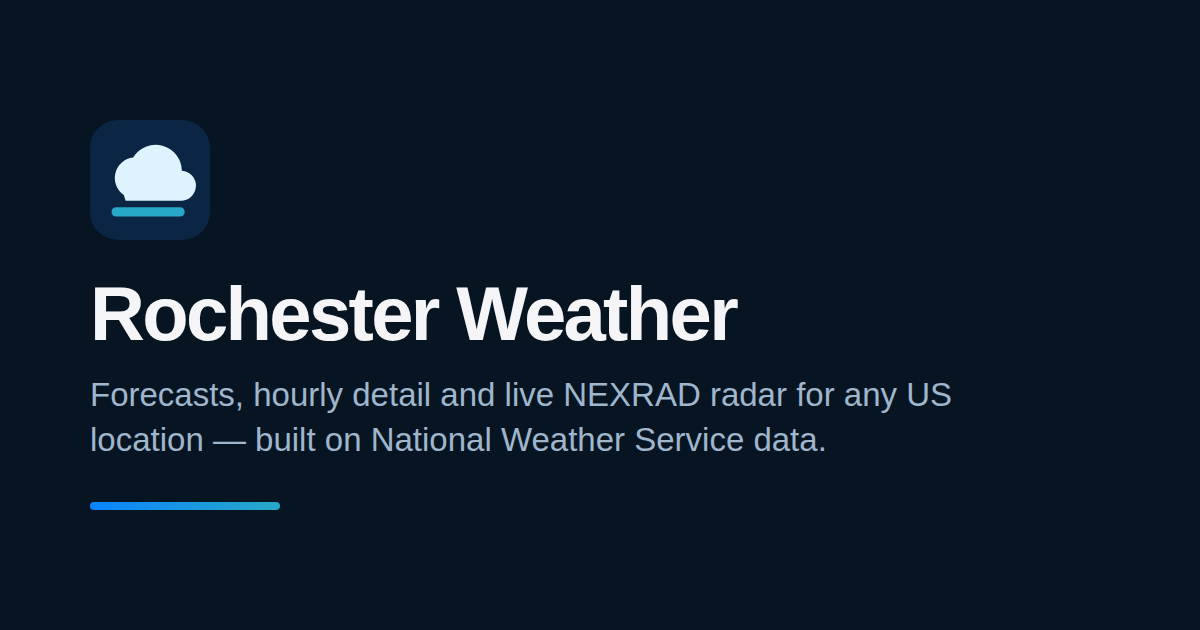
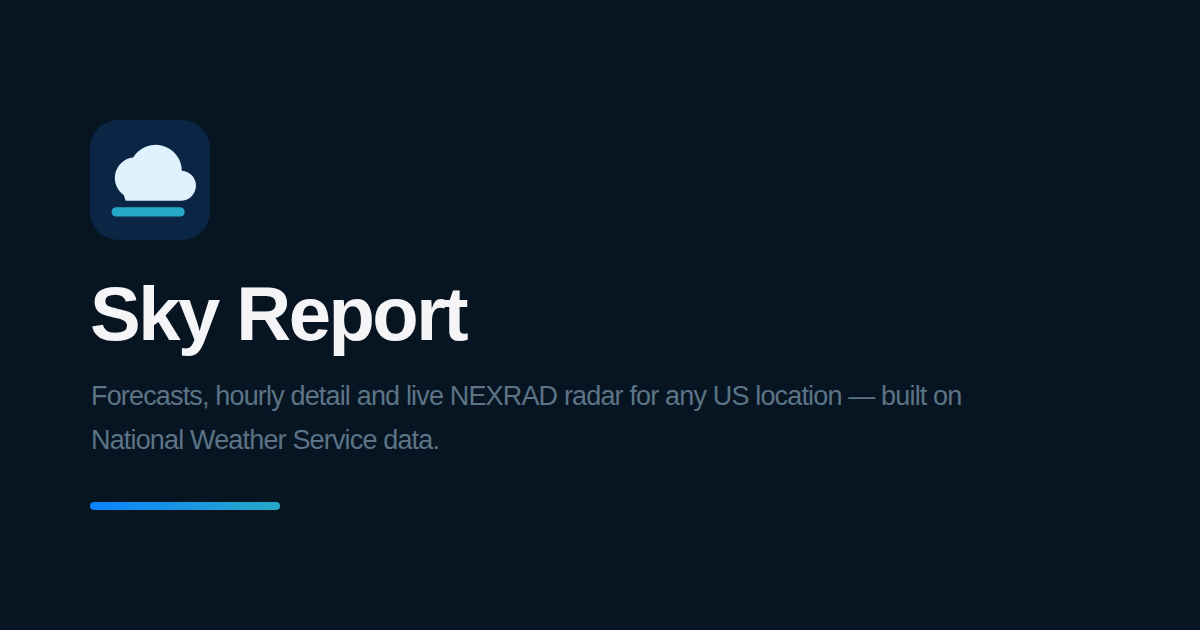
Rename the site from Rochester Weather to Sky Report
The app works for any US location, so the city-specific name no longer
described it. Updates page titles, Open Graph and Twitter metadata, the
web app manifest, and the social share image, and renames the service
worker cache key (the activate handler drops the old one on upgrade).

The default location stays Rochester, Minnesota — that is a starting
point, not branding.

Claude-Session: https://claude.ai/code/session_01SYXLueAeEd3p815v9k5thZ

Changed region(s): [[0.0617, 0.6032, 0.8017, 0.7238], [0.0617, 0.4524, 0.6167, 0.573]]

diff --git a/brief.html b/brief.html
@@ -7,18 +7,18 @@
   <meta name="theme-color" content="#071522">
   <meta name="apple-mobile-web-app-capable" content="yes">
   <meta name="apple-mobile-web-app-status-bar-style" content="black-translucent">
-  <meta name="apple-mobile-web-app-title" content="Rochester Weather">
+  <meta name="apple-mobile-web-app-title" content="Sky Report">
   <meta name="description" content="A weather.gov-powered forecast dashboard that auto-detects your location, refreshes automatically, and lets you switch to any US location.">
   <link rel="canonical" href="https://tylerbridges.github.io/">
   <link rel="apple-touch-icon" href="/apple-touch-icon.png">
   <meta property="og:type" content="website">
-  <meta property="og:site_name" content="Rochester Weather">
-  <meta property="og:title" content="Rochester Weather">
+  <meta property="og:site_name" content="Sky Report">
+  <meta property="og:title" content="Sky Report">
   <meta property="og:description" content="A weather.gov-powered forecast dashboard that auto-detects your location, refreshes automatically, and lets you switch to any US location.">
   <meta property="og:url" content="https://tylerbridges.github.io/">
   <meta property="og:image" content="https://tylerbridges.github.io/og-image.png">
   <meta name="twitter:card" content="summary_large_image">
-  <meta name="twitter:title" content="Rochester Weather">
+  <meta name="twitter:title" content="Sky Report">
   <meta name="twitter:description" content="A weather.gov-powered forecast dashboard that auto-detects your location, refreshes automatically, and lets you switch to any US location.">
   <meta name="twitter:image" content="https://tylerbridges.github.io/og-image.png">
   <link rel="manifest" href="/manifest.webmanifest">
@@ -28,7 +28,7 @@
   <link rel="preconnect" href="https://photon.komoot.io" crossorigin>
   <link rel="dns-prefetch" href="https://photon.komoot.io">
   <link rel="stylesheet" href="/assets/site.css">
-  <title>Rochester Weather</title>
+  <title>Sky Report</title>
 </head>
 <body>
   <main class="shell">

diff --git a/index.html b/index.html
@@ -7,18 +7,18 @@
   <meta name="theme-color" content="#071522">
   <meta name="apple-mobile-web-app-capable" content="yes">
   <meta name="apple-mobile-web-app-status-bar-style" content="black-translucent">
-  <meta name="apple-mobile-web-app-title" content="Rochester Weather">
+  <meta name="apple-mobile-web-app-title" content="Sky Report">
   <meta name="description" content="A weather.gov-powered forecast dashboard that auto-detects your location, refreshes automatically, and lets you switch to any US location.">
   <link rel="canonical" href="https://tylerbridges.github.io/">
   <link rel="apple-touch-icon" href="/apple-touch-icon.png">
   <meta property="og:type" content="website">
-  <meta property="og:site_name" content="Rochester Weather">
-  <meta property="og:title" content="Rochester Weather">
+  <meta property="og:site_name" content="Sky Report">
+  <meta property="og:title" content="Sky Report">
   <meta property="og:description" content="A weather.gov-powered forecast dashboard that auto-detects your location, refreshes automatically, and lets you switch to any US location.">
   <meta property="og:url" content="https://tylerbridges.github.io/">
   <meta property="og:image" content="https://tylerbridges.github.io/og-image.png">
   <meta name="twitter:card" content="summary_large_image">
-  <meta name="twitter:title" content="Rochester Weather">
+  <meta name="twitter:title" content="Sky Report">
   <meta name="twitter:description" content="A weather.gov-powered forecast dashboard that auto-detects your location, refreshes automatically, and lets you switch to any US location.">
   <meta name="twitter:image" content="https://tylerbridges.github.io/og-image.png">
   <link rel="manifest" href="/manifest.webmanifest">
@@ -28,7 +28,7 @@
   <link rel="preconnect" href="https://photon.komoot.io" crossorigin>
   <link rel="dns-prefetch" href="https://photon.komoot.io">
   <link rel="stylesheet" href="/assets/site.css">
-  <title>Rochester Weather</title>
+  <title>Sky Report</title>
 </head>
 <body>
   <main class="shell">

diff --git a/live.html b/live.html
@@ -7,18 +7,18 @@
   <meta name="theme-color" content="#071522">
   <meta name="apple-mobile-web-app-capable" content="yes">
   <meta name="apple-mobile-web-app-status-bar-style" content="black-translucent">
-  <meta name="apple-mobile-web-app-title" content="Rochester Weather">
+  <meta name="apple-mobile-web-app-title" content="Sky Report">
   <meta name="description" content="A weather.gov-powered forecast dashboard that auto-detects your location, refreshes automatically, and lets you switch to any US location.">
   <link rel="canonical" href="https://tylerbridges.github.io/">
   <link rel="apple-touch-icon" href="/apple-touch-icon.png">
   <meta property="og:type" content="website">
-  <meta property="og:site_name" content="Rochester Weather">
-  <meta property="og:title" content="Rochester Weather">
+  <meta property="og:site_name" content="Sky Report">
+  <meta property="og:title" content="Sky Report">
   <meta property="og:description" content="A weather.gov-powered forecast dashboard that auto-detects your location, refreshes automatically, and lets you switch to any US location.">
   <meta property="og:url" content="https://tylerbridges.github.io/">
   <meta property="og:image" content="https://tylerbridges.github.io/og-image.png">
   <meta name="twitter:card" content="summary_large_image">
-  <meta name="twitter:title" content="Rochester Weather">
+  <meta name="twitter:title" content="Sky Report">
   <meta name="twitter:description" content="A weather.gov-powered forecast dashboard that auto-detects your location, refreshes automatically, and lets you switch to any US location.">
   <meta name="twitter:image" content="https://tylerbridges.github.io/og-image.png">
   <link rel="manifest" href="/manifest.webmanifest">
@@ -28,7 +28,7 @@
   <link rel="preconnect" href="https://photon.komoot.io" crossorigin>
   <link rel="dns-prefetch" href="https://photon.komoot.io">
   <link rel="stylesheet" href="/assets/site.css">
-  <title>Rochester Weather</title>
+  <title>Sky Report</title>
 </head>
 <body>
   <main class="shell">

diff --git a/radar.html b/radar.html
@@ -11,13 +11,13 @@
   <link rel="canonical" href="https://tylerbridges.github.io/radar.html">
   <link rel="apple-touch-icon" href="/apple-touch-icon.png">
   <meta property="og:type" content="website">
-  <meta property="og:site_name" content="Rochester Weather">
-  <meta property="og:title" content="Radar — Rochester Weather">
+  <meta property="og:site_name" content="Sky Report">
+  <meta property="og:title" content="Radar — Sky Report">
   <meta property="og:description" content="High-resolution NEXRAD weather radar centered on your location.">
   <meta property="og:url" content="https://tylerbridges.github.io/radar.html">
   <meta property="og:image" content="https://tylerbridges.github.io/og-image.png">
   <meta name="twitter:card" content="summary_large_image">
-  <meta name="twitter:title" content="Radar — Rochester Weather">
+  <meta name="twitter:title" content="Radar — Sky Report">
   <meta name="twitter:description" content="High-resolution NEXRAD weather radar centered on your location.">
   <meta name="twitter:image" content="https://tylerbridges.github.io/og-image.png">
   <link rel="manifest" href="/manifest.webmanifest">
@@ -30,7 +30,7 @@
   <link rel="preconnect" href="https://tiles.openfreemap.org" crossorigin>
   <link rel="stylesheet" href="/assets/site.css">
   <link rel="stylesheet" href="https://cdn.jsdelivr.net/npm/maplibre-gl@5.6.1/dist/maplibre-gl.css" integrity="sha384-Nq6PQ+9vJPvw7U/VfDELyrWoGQMsy0gi6QShhaSrGzkpF5KkM40csg2leky+YMTd" crossorigin="anonymous" referrerpolicy="no-referrer">
-  <title>Radar — Rochester Weather</title>
+  <title>Radar — Sky Report</title>
   <style>
     .radar-viewer{overflow:hidden;border:1px solid var(--line);border-radius:14px;background:var(--surface);box-shadow:var(--shadow)}
     .radar-card{position:relative;height:clamp(280px,58vw,520px);background:var(--surface-2)}

diff --git a/hourly.html b/hourly.html
@@ -11,13 +11,13 @@
   <link rel="canonical" href="https://tylerbridges.github.io/hourly.html">
   <link rel="apple-touch-icon" href="/apple-touch-icon.png">
   <meta property="og:type" content="website">
-  <meta property="og:site_name" content="Rochester Weather">
-  <meta property="og:title" content="Hourly Forecast — Rochester Weather">
+  <meta property="og:site_name" content="Sky Report">
+  <meta property="og:title" content="Hourly Forecast — Sky Report">
   <meta property="og:description" content="Hourly weather forecast for your selected location.">
   <meta property="og:url" content="https://tylerbridges.github.io/hourly.html">
   <meta property="og:image" content="https://tylerbridges.github.io/og-image.png">
   <meta name="twitter:card" content="summary_large_image">
-  <meta name="twitter:title" content="Hourly Forecast — Rochester Weather">
+  <meta name="twitter:title" content="Hourly Forecast — Sky Report">
   <meta name="twitter:description" content="Hourly weather forecast for your selected location.">
   <meta name="twitter:image" content="https://tylerbridges.github.io/og-image.png">
   <link rel="manifest" href="/manifest.webmanifest">
@@ -27,7 +27,7 @@
   <link rel="preconnect" href="https://photon.komoot.io" crossorigin>
   <link rel="dns-prefetch" href="https://photon.komoot.io">
   <link rel="stylesheet" href="/assets/site.css">
-  <title>Hourly Forecast — Rochester Weather</title>
+  <title>Hourly Forecast — Sky Report</title>
 </head>
 <body>
   <main class="shell">

diff --git a/forecast.html b/forecast.html
@@ -11,13 +11,13 @@
   <link rel="canonical" href="https://tylerbridges.github.io/forecast.html">
   <link rel="apple-touch-icon" href="/apple-touch-icon.png">
   <meta property="og:type" content="website">
-  <meta property="og:site_name" content="Rochester Weather">
-  <meta property="og:title" content="7-Day Forecast — Rochester Weather">
+  <meta property="og:site_name" content="Sky Report">
+  <meta property="og:title" content="7-Day Forecast — Sky Report">
   <meta property="og:description" content="Full 7-day NWS forecast for your location.">
   <meta property="og:url" content="https://tylerbridges.github.io/forecast.html">
   <meta property="og:image" content="https://tylerbridges.github.io/og-image.png">
   <meta name="twitter:card" content="summary_large_image">
-  <meta name="twitter:title" content="7-Day Forecast — Rochester Weather">
+  <meta name="twitter:title" content="7-Day Forecast — Sky Report">
   <meta name="twitter:description" content="Full 7-day NWS forecast for your location.">
   <meta name="twitter:image" content="https://tylerbridges.github.io/og-image.png">
   <link rel="manifest" href="/manifest.webmanifest">
@@ -27,7 +27,7 @@
   <link rel="preconnect" href="https://photon.komoot.io" crossorigin>
   <link rel="dns-prefetch" href="https://photon.komoot.io">
   <link rel="stylesheet" href="/assets/site.css">
-  <title>7-Day Forecast — Rochester Weather</title>
+  <title>7-Day Forecast — Sky Report</title>
 </head>
 <body>
   <main class="shell">

diff --git a/privacy.html b/privacy.html
@@ -11,19 +11,19 @@
   <link rel="canonical" href="https://tylerbridges.github.io/privacy.html">
   <link rel="apple-touch-icon" href="/apple-touch-icon.png">
   <meta property="og:type" content="website">
-  <meta property="og:site_name" content="Rochester Weather">
-  <meta property="og:title" content="Privacy Policy — Rochester Weather">
+  <meta property="og:site_name" content="Sky Report">
+  <meta property="og:title" content="Privacy Policy — Sky Report">
   <meta property="og:description" content="How this site handles your location and browser data.">
   <meta property="og:url" content="https://tylerbridges.github.io/privacy.html">
   <meta property="og:image" content="https://tylerbridges.github.io/og-image.png">
   <meta name="twitter:card" content="summary_large_image">
-  <meta name="twitter:title" content="Privacy Policy — Rochester Weather">
+  <meta name="twitter:title" content="Privacy Policy — Sky Report">
   <meta name="twitter:description" content="How this site handles your location and browser data.">
   <meta name="twitter:image" content="https://tylerbridges.github.io/og-image.png">
   <link rel="manifest" href="/manifest.webmanifest">
   <link rel="icon" type="image/svg+xml" href="/favicon.svg">
   <link rel="stylesheet" href="/assets/site.css">
-  <title>Privacy Policy — Rochester Weather</title>
+  <title>Privacy Policy — Sky Report</title>
 </head>
 <body>
   <main class="shell">

diff --git a/terms.html b/terms.html
@@ -11,19 +11,19 @@
   <link rel="canonical" href="https://tylerbridges.github.io/terms.html">
   <link rel="apple-touch-icon" href="/apple-touch-icon.png">
   <meta property="og:type" content="website">
-  <meta property="og:site_name" content="Rochester Weather">
-  <meta property="og:title" content="Terms of Service — Rochester Weather">
+  <meta property="og:site_name" content="Sky Report">
+  <meta property="og:title" content="Terms of Service — Sky Report">
   <meta property="og:description" content="Terms for using this site.">
   <meta property="og:url" content="https://tylerbridges.github.io/terms.html">
   <meta property="og:image" content="https://tylerbridges.github.io/og-image.png">
   <meta name="twitter:card" content="summary_large_image">
-  <meta name="twitter:title" content="Terms of Service — Rochester Weather">
+  <meta name="twitter:title" content="Terms of Service — Sky Report">
   <meta name="twitter:description" content="Terms for using this site.">
   <meta name="twitter:image" content="https://tylerbridges.github.io/og-image.png">
   <link rel="manifest" href="/manifest.webmanifest">
   <link rel="icon" type="image/svg+xml" href="/favicon.svg">
   <link rel="stylesheet" href="/assets/site.css">
-  <title>Terms of Service — Rochester Weather</title>
+  <title>Terms of Service — Sky Report</title>
 </head>
 <body>
   <main class="shell">

diff --git a/credits.html b/credits.html
@@ -11,19 +11,19 @@
   <link rel="canonical" href="https://tylerbridges.github.io/credits.html">
   <link rel="apple-touch-icon" href="/apple-touch-icon.png">
   <meta property="og:type" content="website">
-  <meta property="og:site_name" content="Rochester Weather">
-  <meta property="og:title" content="Credits — Rochester Weather">
+  <meta property="og:site_name" content="Sky Report">
+  <meta property="og:title" content="Credits — Sky Report">
   <meta property="og:description" content="Data and map sources credited on this site.">
   <meta property="og:url" content="https://tylerbridges.github.io/credits.html">
   <meta property="og:image" content="https://tylerbridges.github.io/og-image.png">
   <meta name="twitter:card" content="summary_large_image">
-  <meta name="twitter:title" content="Credits — Rochester Weather">
+  <meta name="twitter:title" content="Credits — Sky Report">
   <meta name="twitter:description" content="Data and map sources credited on this site.">
   <meta name="twitter:image" content="https://tylerbridges.github.io/og-image.png">
   <link rel="manifest" href="/manifest.webmanifest">
   <link rel="icon" type="image/svg+xml" href="/favicon.svg">
   <link rel="stylesheet" href="/assets/site.css">
-  <title>Credits — Rochester Weather</title>
+  <title>Credits — Sky Report</title>
 </head>
 <body>
   <main class="shell">

diff --git a/settings.html b/settings.html
@@ -11,19 +11,19 @@
   <link rel="canonical" href="https://tylerbridges.github.io/settings.html">
   <link rel="apple-touch-icon" href="/apple-touch-icon.png">
   <meta property="og:type" content="website">
-  <meta property="og:site_name" content="Rochester Weather">
-  <meta property="og:title" content="Settings — Rochester Weather">
+  <meta property="og:site_name" content="Sky Report">
+  <meta property="og:title" content="Settings — Sky Report">
   <meta property="og:description" content="Site settings.">
   <meta property="og:url" content="https://tylerbridges.github.io/settings.html">
   <meta property="og:image" content="https://tylerbridges.github.io/og-image.png">
   <meta name="twitter:card" content="summary_large_image">
-  <meta name="twitter:title" content="Settings — Rochester Weather">
+  <meta name="twitter:title" content="Settings — Sky Report">
   <meta name="twitter:description" content="Site settings.">
   <meta name="twitter:image" content="https://tylerbridges.github.io/og-image.png">
   <link rel="manifest" href="/manifest.webmanifest">
   <link rel="icon" type="image/svg+xml" href="/favicon.svg">
   <link rel="stylesheet" href="/assets/site.css">
-  <title>Settings — Rochester Weather</title>
+  <title>Settings — Sky Report</title>
 </head>
 <body>
   <main class="shell">

diff --git a/sw.js b/sw.js
@@ -1,4 +1,4 @@
-const CACHE='rochester-weather-v76';
+const CACHE='sky-report-v77';
 const SHELL=['/','/index.html','/brief.html','/live.html','/hourly.html','/forecast.html','/radar.html','/credits.html','/settings.html','/privacy.html','/terms.html','/404.html','/manifest.webmanifest','/favicon.svg','/apple-touch-icon.png','/icon-192.png','/icon-512.png','/icon-maskable-512.png','/assets/site.css','/assets/weather-core.js'];
 self.addEventListener('install',event=>event.waitUntil(caches.open(CACHE).then(cache=>cache.addAll(SHELL))));
 self.addEventListener('install',()=>self.skipWaiting());

diff --git a/404.html b/404.html
@@ -11,7 +11,7 @@
   <link rel="manifest" href="/manifest.webmanifest">
   <link rel="icon" type="image/svg+xml" href="/favicon.svg">
   <link rel="stylesheet" href="/assets/site.css">
-  <title>Page not found — Rochester Weather</title>
+  <title>Page not found — Sky Report</title>
 </head>
 <body>
   <main class="shell">
